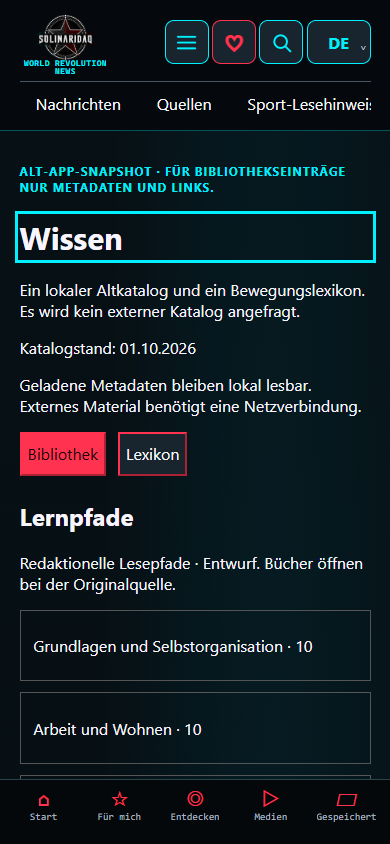
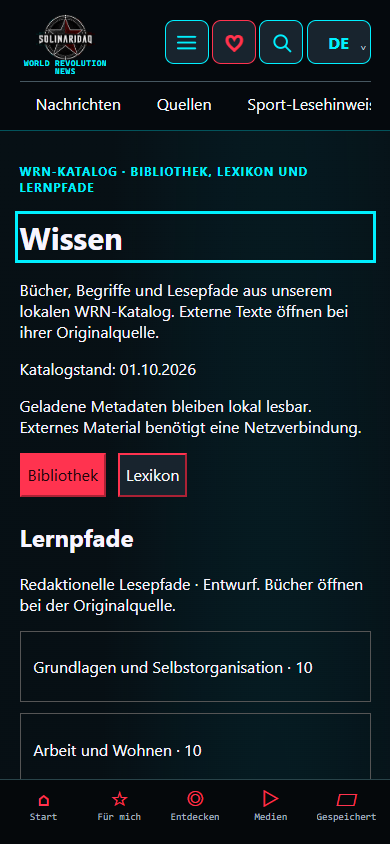
Describe the current knowledge catalogue in all interface languages

Changed region(s): [[0.0308, 0.3389, 0.9538, 0.9242], [0.0308, 0.1848, 0.8923, 0.2464], [0.5231, 0.6469, 0.9231, 0.7085]]

diff --git a/apps/website/src/features/knowledge/WebsiteKnowledgeRoute.tsx b/apps/website/src/features/knowledge/WebsiteKnowledgeRoute.tsx
@@ -8,6 +8,53 @@ import { LearningPaths } from './LearningPaths';
 
 type Tab = 'library' | 'lexicon';
 const pageSize = 30;
+const currentCatalogueCopy: Record<UiLanguage, { provenance: string; intro: string }> = {
+  de: {
+    provenance: 'WRN-Katalog · Bibliothek, Lexikon und Lernpfade',
+    intro:
+      'Bücher, Begriffe und Lesepfade aus unserem lokalen WRN-Katalog. Externe Texte öffnen bei ihrer Originalquelle.',
+  },
+  en: {
+    provenance: 'WRN catalogue · library, glossary and learning paths',
+    intro:
+      'Books, terms and reading paths from our local WRN catalogue. External texts open at their original source.',
+  },
+  es: {
+    provenance: 'Catálogo WRN · biblioteca, glosario e itinerarios',
+    intro:
+      'Libros, conceptos e itinerarios de lectura de nuestro catálogo local WRN. Los textos externos se abren en su fuente original.',
+  },
+  fr: {
+    provenance: 'Catalogue WRN · bibliothèque, lexique et parcours',
+    intro:
+      'Livres, notions et parcours de lecture de notre catalogue local WRN. Les textes externes s’ouvrent à leur source originale.',
+  },
+  it: {
+    provenance: 'Catalogo WRN · biblioteca, glossario e percorsi',
+    intro:
+      'Libri, concetti e percorsi di lettura dal nostro catalogo locale WRN. I testi esterni si aprono alla fonte originale.',
+  },
+  pt: {
+    provenance: 'Catálogo WRN · biblioteca, glossário e percursos',
+    intro:
+      'Livros, conceitos e percursos de leitura do nosso catálogo local WRN. Os textos externos abrem na fonte original.',
+  },
+  ru: {
+    provenance: 'Каталог WRN · библиотека, словарь и учебные маршруты',
+    intro:
+      'Книги, понятия и маршруты чтения из нашего локального каталога WRN. Внешние тексты открываются у первоисточника.',
+  },
+  el: {
+    provenance: 'Κατάλογος WRN · βιβλιοθήκη, λεξικό και διαδρομές μάθησης',
+    intro:
+      'Βιβλία, έννοιες και διαδρομές ανάγνωσης από τον τοπικό κατάλογο WRN. Τα εξωτερικά κείμενα ανοίγουν στην αρχική πηγή.',
+  },
+  tr: {
+    provenance: 'WRN kataloğu · kütüphane, sözlük ve öğrenme yolları',
+    intro:
+      'Yerel WRN kataloğumuzdan kitaplar, kavramlar ve okuma yolları. Harici metinler özgün kaynağında açılır.',
+  },
+};
 const normalize = (value: string) =>
   value
     .normalize('NFKD')
@@ -312,11 +359,11 @@ export function WebsiteKnowledgeRoute({
   }, [headingRef]);
   return (
     <section className="website-knowledge-view" aria-labelledby="website-page-title">
-      <p className="hero-kicker">{copy.provenance}</p>
+      <p className="hero-kicker">{currentCatalogueCopy[language].provenance}</p>
       <h1 id="website-page-title" ref={headingRef} tabIndex={-1}>
         {copy.title}
       </h1>
-      <p>{copy.intro}</p>
+      <p>{currentCatalogueCopy[language].intro}</p>
       {data === null ? (
         <div role="status">
           {failed ? (

diff --git a/docs/PROJECT-STATE.md b/docs/PROJECT-STATE.md
@@ -1,6 +1,6 @@
 # WRN â€“ aktueller Arbeitsstand
 
-Neu 01.10. – Gemeinsamer lokaler Katalog-/Wissenskandidat: 715 Bücher (53 DE), 155 Begriffe mit 32 Referenzen, 19 DE-/EN-Revisionen und drei Entwurfs-Lernpfade mit 30 Werkbezügen. Podcastarchiv aus 1.310 aktiven IDs als 1.256 eindeutige Originalseiten auf der Website; kein neues Medienrecht. App6428cfe/Data4153d5f gebunden, historische Website-Dateien erhalten. Website231 Vitest/84 Node, Typprüfung/Lint/Build und vier Browserfälle bestanden; Offline-Shell7.023.465 Bytes. Noch nicht live, nicht in Code32; unabhängiger Website-Abschlussreview folgt. [Abschlussbeleg](evidence/WRN-CATALOG-KNOWLEDGE-2026-10-01/REPORT.md).
+Neu 01.10. – Gemeinsamer lokaler Katalog-/Wissenskandidat: 715 Bücher (53 DE), 155 Begriffe mit 32 Referenzen, 19 DE-/EN-Revisionen und drei Entwurfs-Lernpfade mit 30 Werkbezügen. Podcastarchiv aus 1.310 aktiven IDs als 1.256 eindeutige Originalseiten auf der Website; kein neues Medienrecht. App6428cfe/Data4153d5f gebunden, historische Website-Dateien erhalten. Website231 Vitest/84 Node, Typprüfung/Lint/Build und vier Browserfälle bestanden; Offline-Shell7.025.513 Bytes. Noch nicht live, nicht in Code32; unabhängiger Website-Abschlussreview folgt. [Abschlussbeleg](evidence/WRN-CATALOG-KNOWLEDGE-2026-10-01/REPORT.md).
 
 Neu 30.09., 05:55 UTC – Die jüngste PO-Lenkung zur Website ist umgesetzt und
 live: echte Bildaufmacher zuerst, bebilderte Nebenmeldungen im Desktop-/Tablet-

diff --git a/docs/evidence/WRN-CATALOG-KNOWLEDGE-2026-10-01/REPORT.md b/docs/evidence/WRN-CATALOG-KNOWLEDGE-2026-10-01/REPORT.md
@@ -42,13 +42,17 @@ Website: 231 Vitest und 84 Node-Fälle bestanden. Nach Quellenklassifikations-
 und Testtypkorrektur 24 betroffene Wissens-/Katalogfälle erneut bestanden.
 Typprüfung und fokussierter Lint bestanden. Nachrichtenprojektionsverträge:
 12 Node-Fälle bestanden. Produktionsbuild mit 12 Artikel-Landings bestanden.
-Offline-Shell 7.023.465 Bytes, weiterhin unter dem harten 8-MiB-Limit.
+Offline-Shell 7.025.513 Bytes, weiterhin unter dem harten 8-MiB-Limit.
 
 Vier Browserfälle bestanden: 390/800/1440 sowie 200-%-Reflow. Podcastpagination,
 Originalsprache, sichere Originallinks, 715-Bücher-Suche, Lernpfade und
 Lexikon-Direktaufruf geprüft; Lernpfade in neun UI-Sprachen, ehrlicher EN-Fallback
 außerhalb DE/EN. Axe-Prüfung für den sichtbaren Wissensbereich ohne Befunde.
 Repräsentative Screenshots und ein Hashmanifest liegen in diesem Verzeichnis.
+Der sichtbare Einstieg bezeichnet den aktuellen lokalen Katalog statt des
+veralteten Alt-App-Katalogs; dieser UI-Text ist in neun Sprachen vorhanden.
+Nach dieser Copy-Korrektur Typprüfung/Lint/Build und 36 Sprach-/Breitenkombinationen
+bei 320/390/768/1440 erneut ohne Überlauf geprüft.
 
 Frische Vorschau: `http://127.0.0.1:43231/?lang=de#knowledge`.
 App: `http://127.0.0.1:8794/index.html?preview=8&catalog=20261001`.
